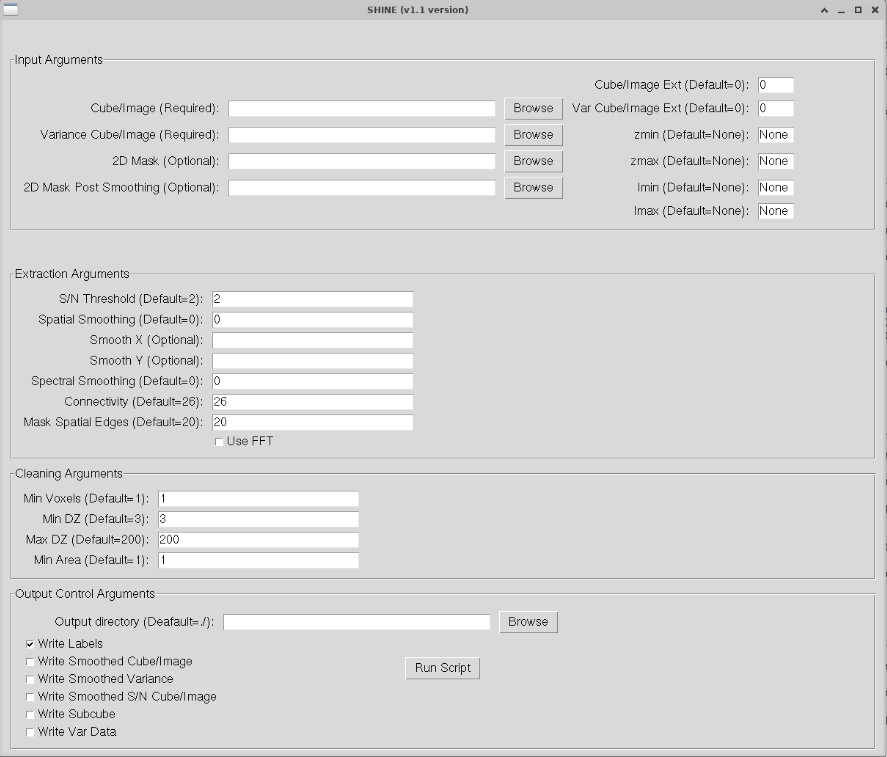
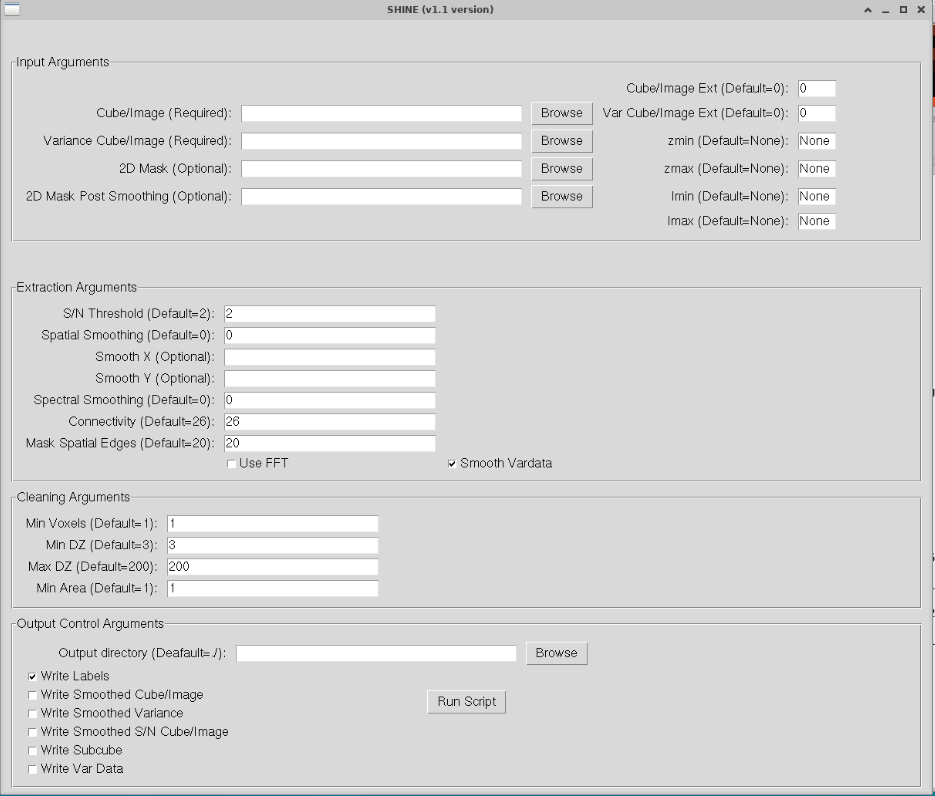
Update skip variance smoothing in GUI & documentation

diff --git a/shine/SHINE.py b/shine/SHINE.py
@@ -730,6 +730,7 @@ def main():
     grpext.add_argument('--spatsmoothY',  default= None,   help='Gaussian Sigma of the spatial convolution kernel applied in Y. If set, this has priority over spatsmooth.')
     grpext.add_argument('--specsmooth',   default= 0.,     type=float, help='Gaussian Sigma of the spectra convolution kernel applied in Z/Lambda.')   
     grpext.add_argument('--usefftconv',   default= False,  type=bool, help='If True, use fft for convolution rather than the direct algorithm.')   
+    grpext.add_argument('--dovarsmooth',  default= True,   type=bool, help='If False, do not apply the smoothing on the vardata.')
     grpext.add_argument('--connectivity', default= 26,     type=int, help='Voxel connectivity scheme to be used. Only 4,8 (2D) and 26, 18, and 6 (3D) are allowed.')   
     grpext.add_argument('--maskspedge',   default= None,   type=int, help='Determines how much (in pixels) to expand the mask around the edges of the cube/image.')   
    
@@ -764,7 +765,7 @@ def main():
     runextraction(args.data, args.vardata, \
     mask2d = args.mask2d, mask2dpost = args.mask2dpost, fmask3D = args.mask3d, extdata=args.extdata, extvardata=args.extvardata, \
     zmin = args.zmin, zmax=args.zmax, lmin=args.lmin, lmax=args.lmax, spatsmooth = spatsig, specsig=args.specsmooth, \
-    usefftconv=args.usefftconv, snthreshold=args.snthreshold, connectivity = args.connectivity, \
+    usefftconv=args.usefftconv, dovarsmooth=args.dovarsmooth, snthreshold=args.snthreshold, connectivity = args.connectivity, \
     maskspedge=args.maskspedge, mindz = args.mindz, maxdz=args.maxdz, minvox=args.minvox, minarea=args.minarea, \
     outdir=args.outdir, writelabels=args.writelabels, writesmdata=args.writesmdata, \
     writesmvar=args.writesmvar, writesmsnr=args.writesmsnr, writevardata=args.writevardata)

diff --git a/shine/GUI_SHINE.py b/shine/GUI_SHINE.py
@@ -67,7 +67,9 @@ class GUI_SHINE:
         self.entry_connectivity = self.create_input_row(self.frame_extraction, "Connectivity (Default=26):", 5, "26")
         self.entry_maskspatedge = self.create_input_row(self.frame_extraction, "Mask Spatial Edges (Default=20):", 6, "20")
         self.usefftconv         = tk.BooleanVar()
+        self.dovarsmooth        = tk.BooleanVar(value=1)
         tk.Checkbutton(self.frame_extraction, text="Use FFT", variable=self.usefftconv).grid(row=7, column=1, sticky="w")
+        tk.Checkbutton(self.frame_extraction, text="Smooth Vardata", variable=self.dovarsmooth).grid(row=7, column=2, sticky="w")
 
         # === Cleaning Arguments Section (grpcln) ===
         self.frame_cleaning = tk.LabelFrame(root, text="Cleaning Arguments", padx=10, pady=10)
@@ -238,6 +240,7 @@ class GUI_SHINE:
         connectivity = self.entry_connectivity.get()
         maskspatedge = self.entry_maskspatedge.get()
         usefftconv   = self.usefftconv.get()
+        dovarsmooth  = self.dovarsmooth.get()
 
         # Collect cleaning arguments
         minvox  = self.entry_minvox.get()
@@ -277,6 +280,8 @@ class GUI_SHINE:
             command.append(f"--specsmooth={specsmooth}")
         if usefftconv:
             command.append(f"--usefftconv={usefftconv}")
+        if dovarsmooth:
+            command.append(f"--dovarsmooth={dovarsmooth}")
 
         if zmin and zmax == "None":
             zmin = None

diff --git a/docs/index.rst b/docs/index.rst
@@ -138,6 +138,7 @@ Run Extraction from the command line
 - ``--spatsmoothY``: (Optional) Gaussian Sigma of the spatial convolution kernel applied in Y. Has priority over ``spatsmooth``.
 - ``--specsmooth``: Gaussian Sigma of the spectral convolution kernel applied in Lambda.
 - ``--usefftconv``: If ``True``, use FFT for convolution rather than the direct algorithm.
+- ``--dovarsmooth``: If False, do not apply the smoothing on the vardata.
 - ``--connectivity``: Voxel connectivity scheme to be used (default=26). Allowed values: 4, 8 (2D); 26, 18, 6 (3D).
 - ``--maskspedge``: Determines how much, in pixels (default=20), to expand the mask around the edges of the cube/image. Useful if the edges are noisier.
 
